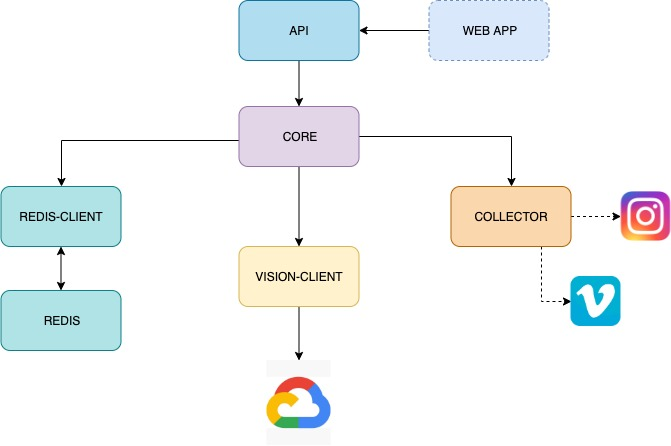
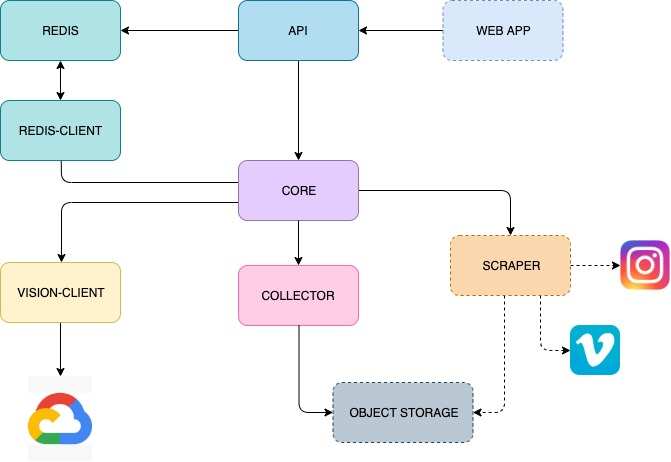
clean and change archi

diff --git a/README.md b/README.md
@@ -19,12 +19,15 @@ For each module:
 Picture Dictionnary follows the principle of **Monorepo** strategy, this means that all (micro)services running in production should be inside this repo Except Api and Redis Datastore. Let's take a look of each folder:
 
 * In **api**, we have the service that allows us to make request to the picture-dictionnary
+This is for now the only service to be independent
 
 * In **vision-client**, we have an dev client that retreive all images informations request to google-cloud-vision
 
 * In **redis-client**, we have an dev client that post and get all informations from redis datastore
 
 * In **core**, there is useful structs or constant useful and shared between subproject
+
+* In **scraper**, not implement yet but has to scrap picture and video from differents sources. So they will be surely multiple scraper
 
 **Docker** Have to be remade for now it's just launch redis datastore and api
 
@@ -80,6 +83,7 @@ In order to bring up:
 * Api Go
     - implement test
     - try picture by label request
+    - change implementation Api has to request from Core/lib
 
 * Object Storage
     - check documentation
